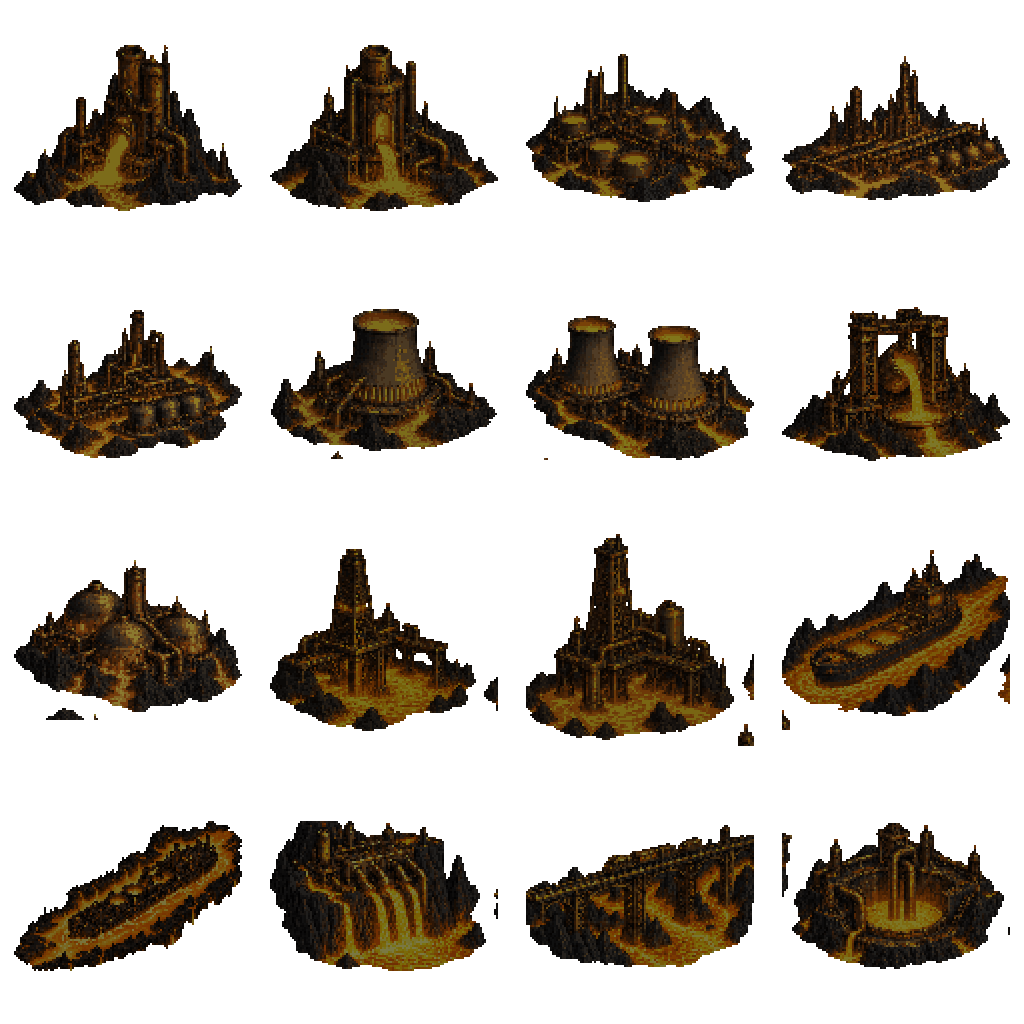
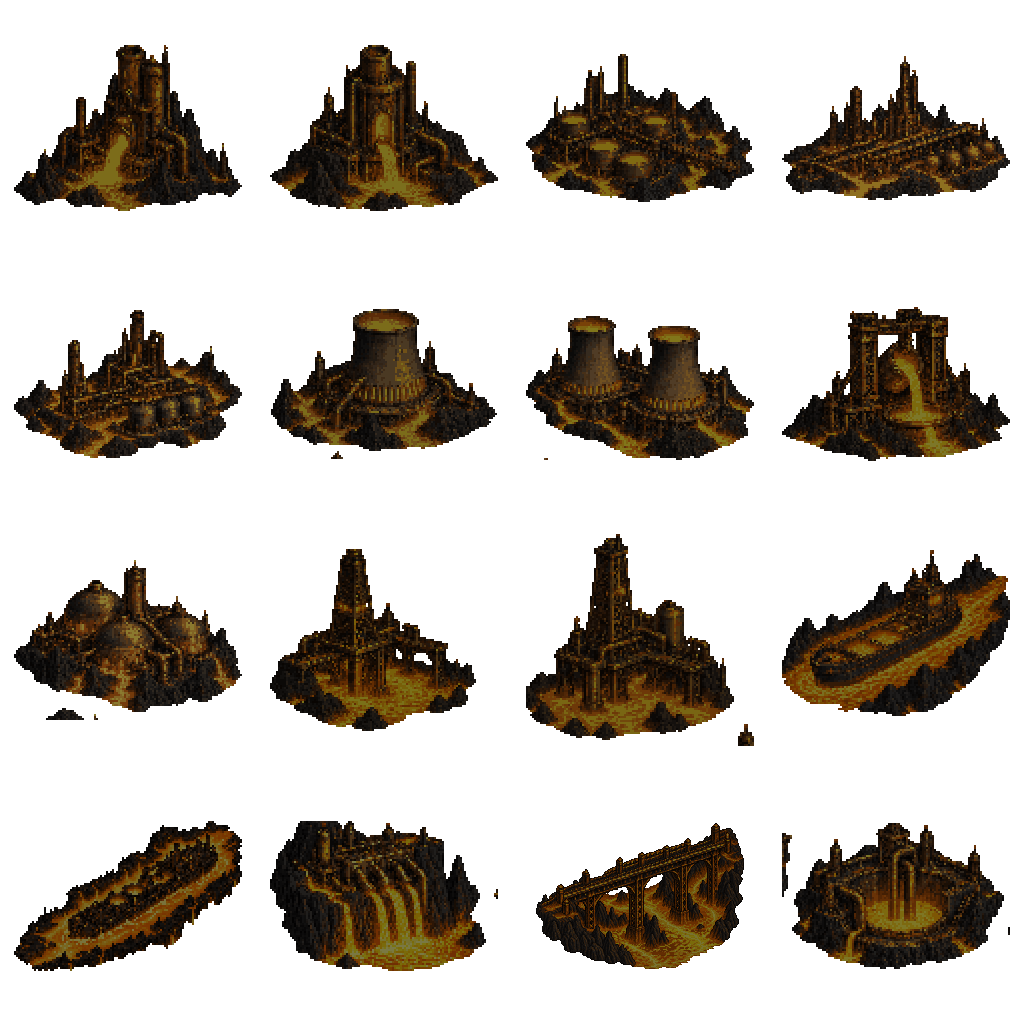
Backdrops: lone spans must land on what they connect (Verdant, Ember, Tide, Desert)
The same class of fault as Frost's causeway in the other planet worlds: a
span laid alone as a cluster's bank piece connected nothing -- Desert's pipe
bridges stood on open dune sand, Tide's sliced-off bridge section and pipe
bridges stood in the open sea, Ember's viaduct (a fragment cut flat at both
ends) and pipe bridges stood anywhere over lava, Verdant's pipe bridge only
needed land somewhere near.

- Each such span now declares its two ends (PieceRule.WithEnds): Verdant /
  Ember pipe bridges and the viaduct land on the crust / banks, Tide's
  bridge section and pipe bridges on painted decks (Built: never alone in the
  open sea sets), Desert's pipe bridges on painted pipeline / ruin (Built:
  never alone on dune sand). Pieces with ends are never mirrored. Pipe runs
  between two structures are unchanged.
- Ember viaduct_00 repainted by Codex with landfall abutments at both ends
  (backdrop_v3~/src~/viaduct_codex/), installed in the atlas's own ramp;
  its beacon point and box re-measured (points.json).
- DesertBackdropTest: the forced worm-collision scenario clears other items
  first and records the razed item's spot when razed; the worm-on-v3 check
  waits up to a minute of ground (both were layout-dependent).

diff --git a/Pause/Assets/Art/Worlds/src~/install_cell.py b/Pause/Assets/Art/Worlds/src~/install_cell.py
@@ -1,0 +1,81 @@
+#!/usr/bin/env python3
+"""Installs a repainted 256 x 256 ground drawing (e.g. Codex's landfall viaduct / causeway) into
+its cell of a world's atlas, matched to the atlas so it sits with the drawings around it:
+
+  - alpha kept binary (>= 128 opaque), as every ground cell;
+  - its luminance distribution matched to the cell it replaces (Codex tends to paint brighter
+    highlights), hue kept;
+  - every colour snapped to the atlas's own ramp (the colours the OTHER cells already use;
+    weighted nearest, as the build scripts do); with --ramp-max-sat N, colours more saturated
+    than N (a world's neon lamp accents) are left out of the ramp and only cyan / magenta lamp
+    pixels of the painting are mapped onto them.
+
+    python3 install_cell.py <atlas.png> <cell name> <new cell.png> [--ramp-max-sat 60] [--keep-old <path>]
+"""
+import json
+import sys
+
+import numpy as np
+from PIL import Image
+
+LUM = np.array([.299, .587, .114], np.float32)
+WTS = np.array([.9, 1.1, 1.15], np.float32)
+
+
+def nearest(want, pal):
+    out = np.empty((len(want), 3), np.float32)
+    for i in range(0, len(want), 8192):
+        ch = want[i:i + 8192]
+        d = (((ch[:, None, :] - pal[None, :, :]) ** 2) * WTS).sum(2)
+        out[i:i + 8192] = pal[d.argmin(1)]
+    return out
+
+
+def main():
+    atlas_path, name, new_path = sys.argv[1], sys.argv[2], sys.argv[3]
+    max_sat = float(sys.argv[sys.argv.index('--ramp-max-sat') + 1]) if '--ramp-max-sat' in sys.argv else None
+    keep_old = sys.argv[sys.argv.index('--keep-old') + 1] if '--keep-old' in sys.argv else None
+    atlas = np.asarray(Image.open(atlas_path).convert('RGBA')).copy()
+    cells = json.load(open(atlas_path[:-4] + '.json'))['sprites']
+    s = next(c for c in cells if c['n'] == name)
+    top = atlas.shape[0] - s['y'] - s['h']
+    sl = (slice(top, top + s['h']), slice(s['x'], s['x'] + s['w']))
+    old = atlas[sl].copy()
+    if keep_old:
+        Image.fromarray(old, 'RGBA').save(keep_old)
+    others = atlas.copy()
+    others[sl] = 0
+    pal = np.unique(others[others[..., 3] > 0][:, :3], axis=0).astype(np.float32)
+    accents = np.zeros((0, 3), np.float32)
+    if max_sat is not None:
+        sat = pal.max(1) - pal.min(1)
+        accents, pal = pal[sat > max_sat], pal[sat <= max_sat]
+
+    new = np.asarray(Image.open(new_path).convert('RGBA')).astype(np.float32)
+    alpha = np.where(new[..., 3] >= 128, 255, 0).astype(np.uint8)
+    on = alpha > 0
+    rgb = new[..., :3].copy()
+    lamp_c = on & (rgb[..., 2] > rgb[..., 0] * 1.6) & (rgb[..., 1] > rgb[..., 0] * 1.3) & (rgb.max(2) > 120)
+    lamp_m = on & (rgb[..., 0] > rgb[..., 1] * 1.4) & (rgb[..., 2] > rgb[..., 1] * 1.25) & (rgb.max(2) > 110)
+    ref = old[old[..., 3] > 0][:, :3].astype(np.float32) @ LUM
+    if len(ref) == 0:
+        ref = others[others[..., 3] > 0][:, :3].astype(np.float32) @ LUM
+    lum = rgb @ LUM
+    order = np.argsort(np.argsort(lum[on]))
+    target = np.sort(ref)[(order * (len(ref) - 1) / max(1, on.sum() - 1)).astype(int)]
+    k = np.ones_like(lum)
+    k[on] = target / np.maximum(lum[on], 1e-3)
+    rgb = rgb * k[..., None]
+    out = np.zeros(rgb.shape, np.uint8)
+    out[on] = nearest(rgb[on], pal).astype(np.uint8)
+    if len(accents):
+        for mask, want in ((lamp_c, (46, 108, 152)), (lamp_m, (117, 75, 134))):
+            out[mask] = accents[np.argmin(((accents - np.array(want, np.float32)) ** 2).sum(1))].astype(np.uint8)
+    out[~on] = 0
+    atlas[sl] = np.dstack((out, alpha))
+    Image.fromarray(atlas, 'RGBA').save(atlas_path)
+    print('installed %s at x %d, row %d (ramp %d colours, %d accents)' % (name, s['x'], top, len(pal), len(accents)))
+
+
+if __name__ == '__main__':
+    main()

diff --git a/Pause/Assets/Scripts/Worlds/Backdrop/TideBackdrop.cs b/Pause/Assets/Scripts/Worlds/Backdrop/TideBackdrop.cs
@@ -88,6 +88,18 @@ public static class TideTuning
     static readonly PieceRule Shoal = new PieceRule(GroundClass.Open | GroundClass.Water, .85f, .3f);   // reefs, wrecks, vents, blooms
     static readonly PieceRule Anywhere = new PieceRule(GroundClass.Any, 0f, .2f);
     static readonly PieceRule SeaPlatform = new PieceRule(GroundClass.Any, 0f, .3f);                     // the sea sets: no deck to stand on
+    // SPANS laid alone (SeaScene's banks): a bridge section or pipe bridge is
+    // only a connector, its deck / pipe sliced off at both ends, so both ends
+    // must come down on a painted deck or city block (Built) -- it joins two
+    // structures -- never left standing in the open sea. On the sea sets
+    // (no deck) they are simply not laid alone. Ends: share of the drawn width
+    // from the centre, y up (never mirrored).
+    static readonly PieceRule BridgeSpan = new PieceRule(GroundClass.Any, 0f, .3f)
+        .WithEnds(new Vector2(-.42f, 0f), new Vector2(.42f, 0f), GroundClass.Built);
+    static readonly PieceRule PipeSpan0 = new PieceRule(GroundClass.Any, 0f, .2f)
+        .WithEnds(new Vector2(-.42f, -.1f), new Vector2(.42f, -.1f), GroundClass.Built);
+    static readonly PieceRule PipeSpan1 = new PieceRule(GroundClass.Any, 0f, .2f)
+        .WithEnds(new Vector2(-.33f, 0f), new Vector2(.36f, -.22f), GroundClass.Built);
 
     // The sets with next to no painted deck (open sea, night currents): a platform
     // there stands on its own foam base, anywhere free.
@@ -96,6 +108,9 @@ public static class TideTuning
     public static PieceRule Rule(string piece, bool openSea = false)
     {
         if (piece == null) return Anywhere;
+        if (piece.StartsWith("bridge_section")) return BridgeSpan;
+        if (piece == "pipebridge_00") return PipeSpan0;
+        if (piece == "pipebridge_01") return PipeSpan1;
         if (piece.StartsWith("tanker") || piece.StartsWith("trawlerbarge") || piece.StartsWith("mooring") ||
             piece.StartsWith("whirlpool") || piece.StartsWith("oil_slick") || piece.StartsWith("plankton")) return Floating;
         if (piece.StartsWith("reef_head") || piece.StartsWith("wreck_hull") || piece.StartsWith("bubbling_vent") ||
@@ -730,7 +745,7 @@ public class TideDirector : PlanetDirector
         bool pipeBank = bank.StartsWith("pipebridge"), feature = bank.StartsWith("whirlpool") || bank.StartsWith("oil_slick");
         var atlas = pipeBank ? pipeArt : feature ? fireArt : landmarkArt;
         var pool = pipeBank ? pipes : feature ? fires : ground;
-        if (Spot(bank, sk, lo - .4f, hi + 1.4f, out x, out gy) && Put(pool, atlas, bank, sk, x, gy, Chance(.5)) != null) n++;
+        if (Spot(bank, sk, lo - .4f, hi + 1.4f, out x, out gy) && Put(pool, atlas, bank, sk, x, gy, !TideTuning.Rule(bank, openSea).HasEnds && Chance(.5)) != null) n++;
         return n;
     }
 

diff --git a/Pause/Assets/Scripts/Worlds/Backdrop/EmberBackdrop.cs b/Pause/Assets/Scripts/Worlds/Backdrop/EmberBackdrop.cs
@@ -82,13 +82,24 @@ public static class EmberTuning
     static readonly PieceRule Span = new PieceRule(GroundClass.Water, .3f, .2f, GroundClass.Land);
     static readonly PieceRule Bank = new PieceRule(GroundClass.Land, .6f, .28f, GroundClass.Water);
     static readonly PieceRule Anywhere = new PieceRule(GroundClass.Any, 0f, .2f);
+    // SPANS laid alone by a lava channel: both ends come down on the crust
+    // (never mirrored), so the viaduct / pipe crosses the lava from bank to
+    // bank instead of standing as a stub in it. Ends measured on the cells
+    // (share of the drawn width from the centre, y up): the viaduct's
+    // landfalls (Codex landfall repaint, 2026-10-11), the pipe bridges' open
+    // flanges over their feet.
+    public static readonly PieceRule ViaductSpan = Span.WithEnds(new Vector2(-.32f, -.05f), new Vector2(.32f, .18f), GroundClass.Land);
+    static readonly PieceRule PipeSpan0 = Span.WithEnds(new Vector2(-.40f, -.16f), new Vector2(.40f, -.16f), GroundClass.Land);
+    static readonly PieceRule PipeSpan1 = Span.WithEnds(new Vector2(-.40f, -.20f), new Vector2(.40f, -.20f), GroundClass.Land);
 
     public static PieceRule Rule(string piece)
     {
         if (piece == null) return Anywhere;
         if (piece.StartsWith("slagbarge") || piece.StartsWith("lavapool") || piece.StartsWith("lavachannel") ||
             piece.StartsWith("firebreak") || piece.StartsWith("magmabay")) return LavaRun;
-        if (piece.StartsWith("viaduct") || piece == "pipebridge_00" || piece == "pipebridge_01") return Span;
+        if (piece.StartsWith("viaduct")) return ViaductSpan;
+        if (piece == "pipebridge_00") return PipeSpan0;
+        if (piece == "pipebridge_01") return PipeSpan1;
         if (piece.StartsWith("lavafall")) return Bank;
         if (piece.StartsWith("slagpad") || piece.StartsWith("hatch")) return Clearing;
         if (piece.StartsWith("lavafountain") || piece.StartsWith("eruptionscar") || piece.StartsWith("coalbed") ||
@@ -654,7 +665,7 @@ public class EmberDirector : PlanetDirector
         bool pipeBank = bank.StartsWith("pipebridge");
         var atlas = pipeBank ? pipeArt : landmarkArt;
         if (Spot(bank, sk, lo - .4f, hi + 1.4f, out x, out gy) &&
-            Put(pipeBank ? pipes : ground, atlas, bank, sk, x, gy, bank.StartsWith("viaduct") && Chance(.5)) != null) n++;
+            Put(pipeBank ? pipes : ground, atlas, bank, sk, x, gy, !EmberTuning.Rule(bank).HasEnds && Chance(.5)) != null) n++;
         if (n == 0 || Chance(.5))
         {
             string pool = Pick(EmberTuning.Pools);

diff --git a/Pause/Assets/Editor/Tests/DesertBackdropTest.cs b/Pause/Assets/Editor/Tests/DesertBackdropTest.cs
@@ -896,6 +896,7 @@ public static class DesertBackdropTest
         var d2 = Director(wb2);
         Run(wb2, 14f);
         d2.ClearWorms();
+        d2.ClearItems();     // only the planted item in the ridge's way (the seeded layout must not decide what else it meets)
         bool ok = d2.SpawnWorm(1, 0f, false, 0f, true);
         var worm = d2.Worms.items[0];
         var item = d2.Plant("radio_mast", 1.4f, worm.x, worm.gy + .8);
@@ -904,6 +905,7 @@ public static class DesertBackdropTest
         bool dying = false, blasts = false, plume = false, alphaOk = true, behind = true, small = true, calm = true;
         float maxAlpha = 0f, maxSize = 0f, maxBlast = 0f;
         for (int i = 0; i < 30 * 40 && !dying; i++) { wb2.Step(Dt); dying = item.dyingT >= 0f; }
+        float ix = item.x; double igy = item.gy;     // its spot when razed (the pooled piece may be re-dealt once it is free)
         Check("the ridge destroys the item it reaches (razed " + d2.ItemsRazed + ")", dying && d2.ItemsRazed == 1);
         Check("... its footprint is freed (it can no longer block a spot) and its loops stop", item.footprint < 0 && feetBefore > 0);
         for (int i = 0; i < 30 * 3; i++)
@@ -929,7 +931,6 @@ public static class DesertBackdropTest
               blasts && plume && alphaOk && small && calm && DesertTuning.BlastAlpha <= .5f);
         Check("... behind gameplay, with a rumble (" + d2.RumblesPlayed + "), and no collider anywhere in the backdrop",
               behind && d2.RumblesPlayed == 1 && wb2.Current.Root.GetComponentsInChildren<Collider2D>(true).Length == 0);
-        float ix = item.x; double igy = item.gy;
         Run(wb2, 2f);
         bool gone = !item.active || item.gy != igy;
         Run(wb2, 60f);
@@ -1230,7 +1231,7 @@ public static class DesertBackdropTest
             d = Director(wb);
             Run(wb, 15f);
             bool any = false;
-            for (int t = 0; t < 8 && !any; t++) { any = d.SpawnWorm(); if (!any) Run(wb, 2f); }
+            for (int t = 0; t < 24 && !any; t++) { any = d.SpawnWorm(); if (!any) Run(wb, 2f); }     // up to ~1 min of ground: whether free sand is in view right now depends on the layout
             Check("v" + v + " can carry a worm on its own sand (" + any + ")", any || v == 2);
             Object.DestroyImmediate(wb.gameObject);
         }

diff --git a/Pause/Assets/Scripts/Worlds/Backdrop/DesertBackdrop.cs b/Pause/Assets/Scripts/Worlds/Backdrop/DesertBackdrop.cs
@@ -84,10 +84,21 @@ public static class DesertTuning
     static readonly PieceRule Hollow = new PieceRule(GroundClass.Open | GroundClass.Water, .75f, .3f);                         // wells, vents, glass: soft or flat ground
     static readonly PieceRule Dune = new PieceRule(GroundClass.Water, .8f, .3f);                                               // a dune ridge: sand
     static readonly PieceRule Anywhere = new PieceRule(GroundClass.Any, 0f, .2f);
+    // a pipe bridge laid ALONE (a bank piece; runs between structures lay
+    // their own): its pipes are sliced off at the cell edge, so both ends must
+    // come down on painted pipeline / ruin (Built) -- it carries a painted line
+    // over a gap -- never left standing on open sand. Never mirrored. Ends:
+    // share of the drawn width from the centre, y up, over its feet.
+    static readonly PieceRule PipeSpan0 = new PieceRule(GroundClass.Any, 0f, .2f)
+        .WithEnds(new Vector2(-.42f, -.12f), new Vector2(.42f, -.12f), GroundClass.Built);
+    static readonly PieceRule PipeSpan1 = new PieceRule(GroundClass.Any, 0f, .2f)
+        .WithEnds(new Vector2(-.30f, -.15f), new Vector2(.42f, -.15f), GroundClass.Built);
 
     public static PieceRule Rule(string piece)
     {
         if (piece == null) return Anywhere;
+        if (piece == "pipe_bridge_00") return PipeSpan0;
+        if (piece == "pipe_bridge_01") return PipeSpan1;
         if (piece == "dune_ridge") return Dune;
         if (piece.StartsWith("dry_well") || piece.StartsWith("heat_vent") || piece.StartsWith("fulgurite") || piece == "fused_glass_crater_rim")
             return Hollow;
@@ -752,7 +763,7 @@ public class DesertDirector : PlanetDirector
         var atlas = pipeBank ? pipeArt : fireArt;
         var pool = pipeBank ? pipes : fires;
         float x; double gy;
-        if (Spot(bank, sk, lo - .4f, hi + .4f, out x, out gy) && Put(pool, atlas, bank, sk, x, gy, Chance(.5)) != null) n++;
+        if (Spot(bank, sk, lo - .4f, hi + .4f, out x, out gy) && Put(pool, atlas, bank, sk, x, gy, !DesertTuning.Rule(bank).HasEnds && Chance(.5)) != null) n++;
         string caravan = Pick(DesertTuning.Caravans);
         float sv = Rand(DesertTuning.LandmarkMin * .9f, DesertTuning.LandmarkMax);
         bool lone = caravan == "lone_crawler";

diff --git a/Pause/Assets/Scripts/Worlds/Backdrop/VerdantBackdrop.cs b/Pause/Assets/Scripts/Worlds/Backdrop/VerdantBackdrop.cs
@@ -74,12 +74,18 @@ public static class VerdantTuning
     static readonly PieceRule Span = new PieceRule(GroundClass.Water, .3f, .2f, GroundClass.Land);
     static readonly PieceRule Bank = new PieceRule(GroundClass.Land, .6f, .28f, GroundClass.Water);
     static readonly PieceRule Anywhere = new PieceRule(GroundClass.Any, 0f, .2f);
+    // a lone pipe bridge (pipebridge_00 laid by a river): its open flanges
+    // (cell x ~30 / ~230, over the drawn banks) both come down on land, so the
+    // pipe runs from bank to bank instead of standing as a stub in the water.
+    // (bridge_00 is drawn whole, jungle on both banks: Span is enough.)
+    static readonly PieceRule PipeSpan = Span.WithEnds(new Vector2(-.38f, -.08f), new Vector2(.38f, -.08f), GroundClass.Land);
 
     public static PieceRule Rule(string piece)
     {
         if (piece == null) return Anywhere;
         if (piece.StartsWith("barge")) return River;
-        if (piece.StartsWith("bridge") || piece == "pipebridge_00") return Span;
+        if (piece == "pipebridge_00") return PipeSpan;
+        if (piece.StartsWith("bridge")) return Span;
         if (piece.StartsWith("waterfall") || piece == "canopy_intake_00" || piece.StartsWith("riverbay")) return Bank;
         if (piece.StartsWith("dome") || piece.StartsWith("silo") || piece.StartsWith("podpad") || piece.StartsWith("hatch")) return Clearing;
         if (piece.StartsWith("burn") || piece.StartsWith("coal") || piece.StartsWith("scorched") ||

diff --git a/Pause/Assets/Art/Worlds/Ember/backdrop_v3~/src~/viaduct_codex/PROMPT.md b/Pause/Assets/Art/Worlds/Ember/backdrop_v3~/src~/viaduct_codex/PROMPT.md
@@ -1,0 +1,30 @@
+# Codex brief: Ember viaduct_00 with landfall ends
+
+Context: Unity 2D portrait shooter "Pause", Ember (forge / lava) world backdrop: neon pixel art --
+HD hand-placed pixel clusters, 1 px dark outline, 4-6 tone ramps, near-black basalt crust, rusted
+dark-bronze iron, molten orange-gold lava glow. Ground pieces are drawn on 256 x 256 transparent
+cells in landmarks.png and placed on the scrolling lava-field ground.
+
+Problem: the current lava viaduct (viaduct_00_old.png in this folder) is a FRAGMENT: its deck and
+its crust base are sliced off flat at both ends (vertical cuts at x~14 and x~241), so wherever it
+is placed it reads as a random stub of bridge. The game now lays it only across a lava channel
+with crust under both ends, so the drawing must END on land at both ends.
+
+Task: paint a replacement viaduct_00.png (exactly 256 x 256, RGBA, transparent background) in the
+SAME style, palette, lighting, view angle and pixel scale as viaduct_00_old.png, ref_lavafall_00.png
+and ref_refinery_01.png (all in this folder; read them first and match them closely):
+  - the same iron-girder viaduct with its arched trestle piers, running on the SAME diagonal, from
+    the lower-left up to the upper-right (deck ends near (40, 150) and (216, 95) in the cell; keep
+    the middle of the deck near the cell centre);
+  - BOTH ends terminate properly: each comes down onto a squat basalt / iron ABUTMENT block with a
+    short ramp, standing on a small shelf of dark crust rock. No flat slice anywhere: the viaduct
+    reads as a complete short bridge from bank to bank;
+  - under the middle spans: a glowing molten lava channel (orange-gold, like the old drawing)
+    flowing between the two crust shelves;
+  - everything inside the cell with at least 16 px of fully transparent margin on every side; no
+    stray pixels or fragments in the margin; no text, no background fill, no drop-shadow box;
+  - crisp nearest-neighbour pixels, no blur, no soft anti-aliasing, no photorealism, no pink.
+Deliver:
+  - viaduct_00.png  (256 x 256 RGBA) in this folder
+  - viaduct_00_preview.png (the cell scaled x3 nearest-neighbour over a mid-grey background)
+Do not modify any other file.
